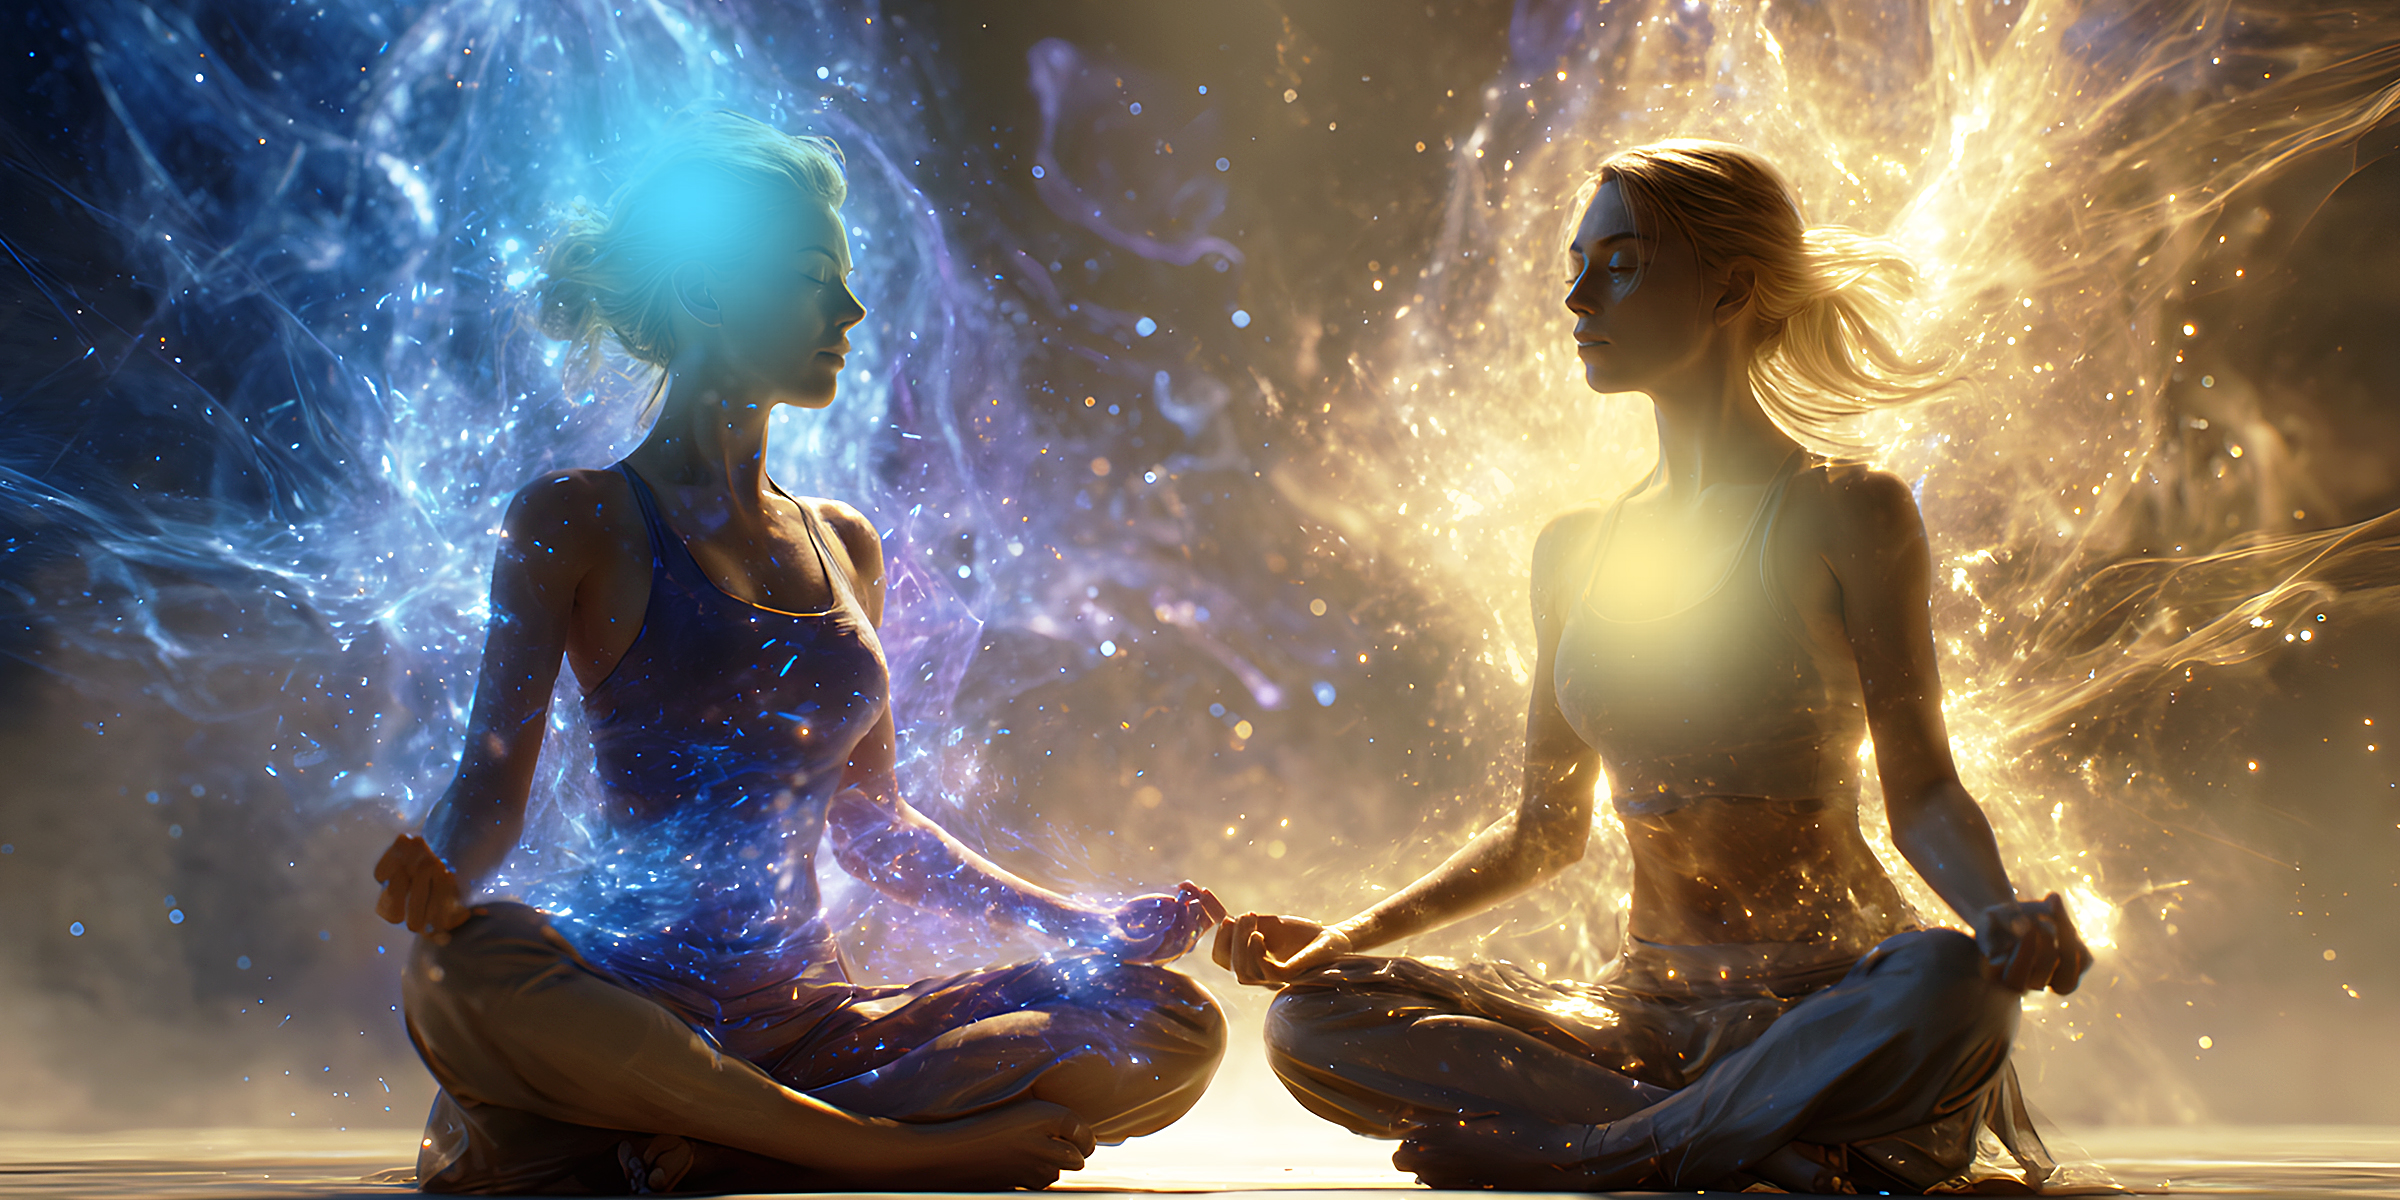
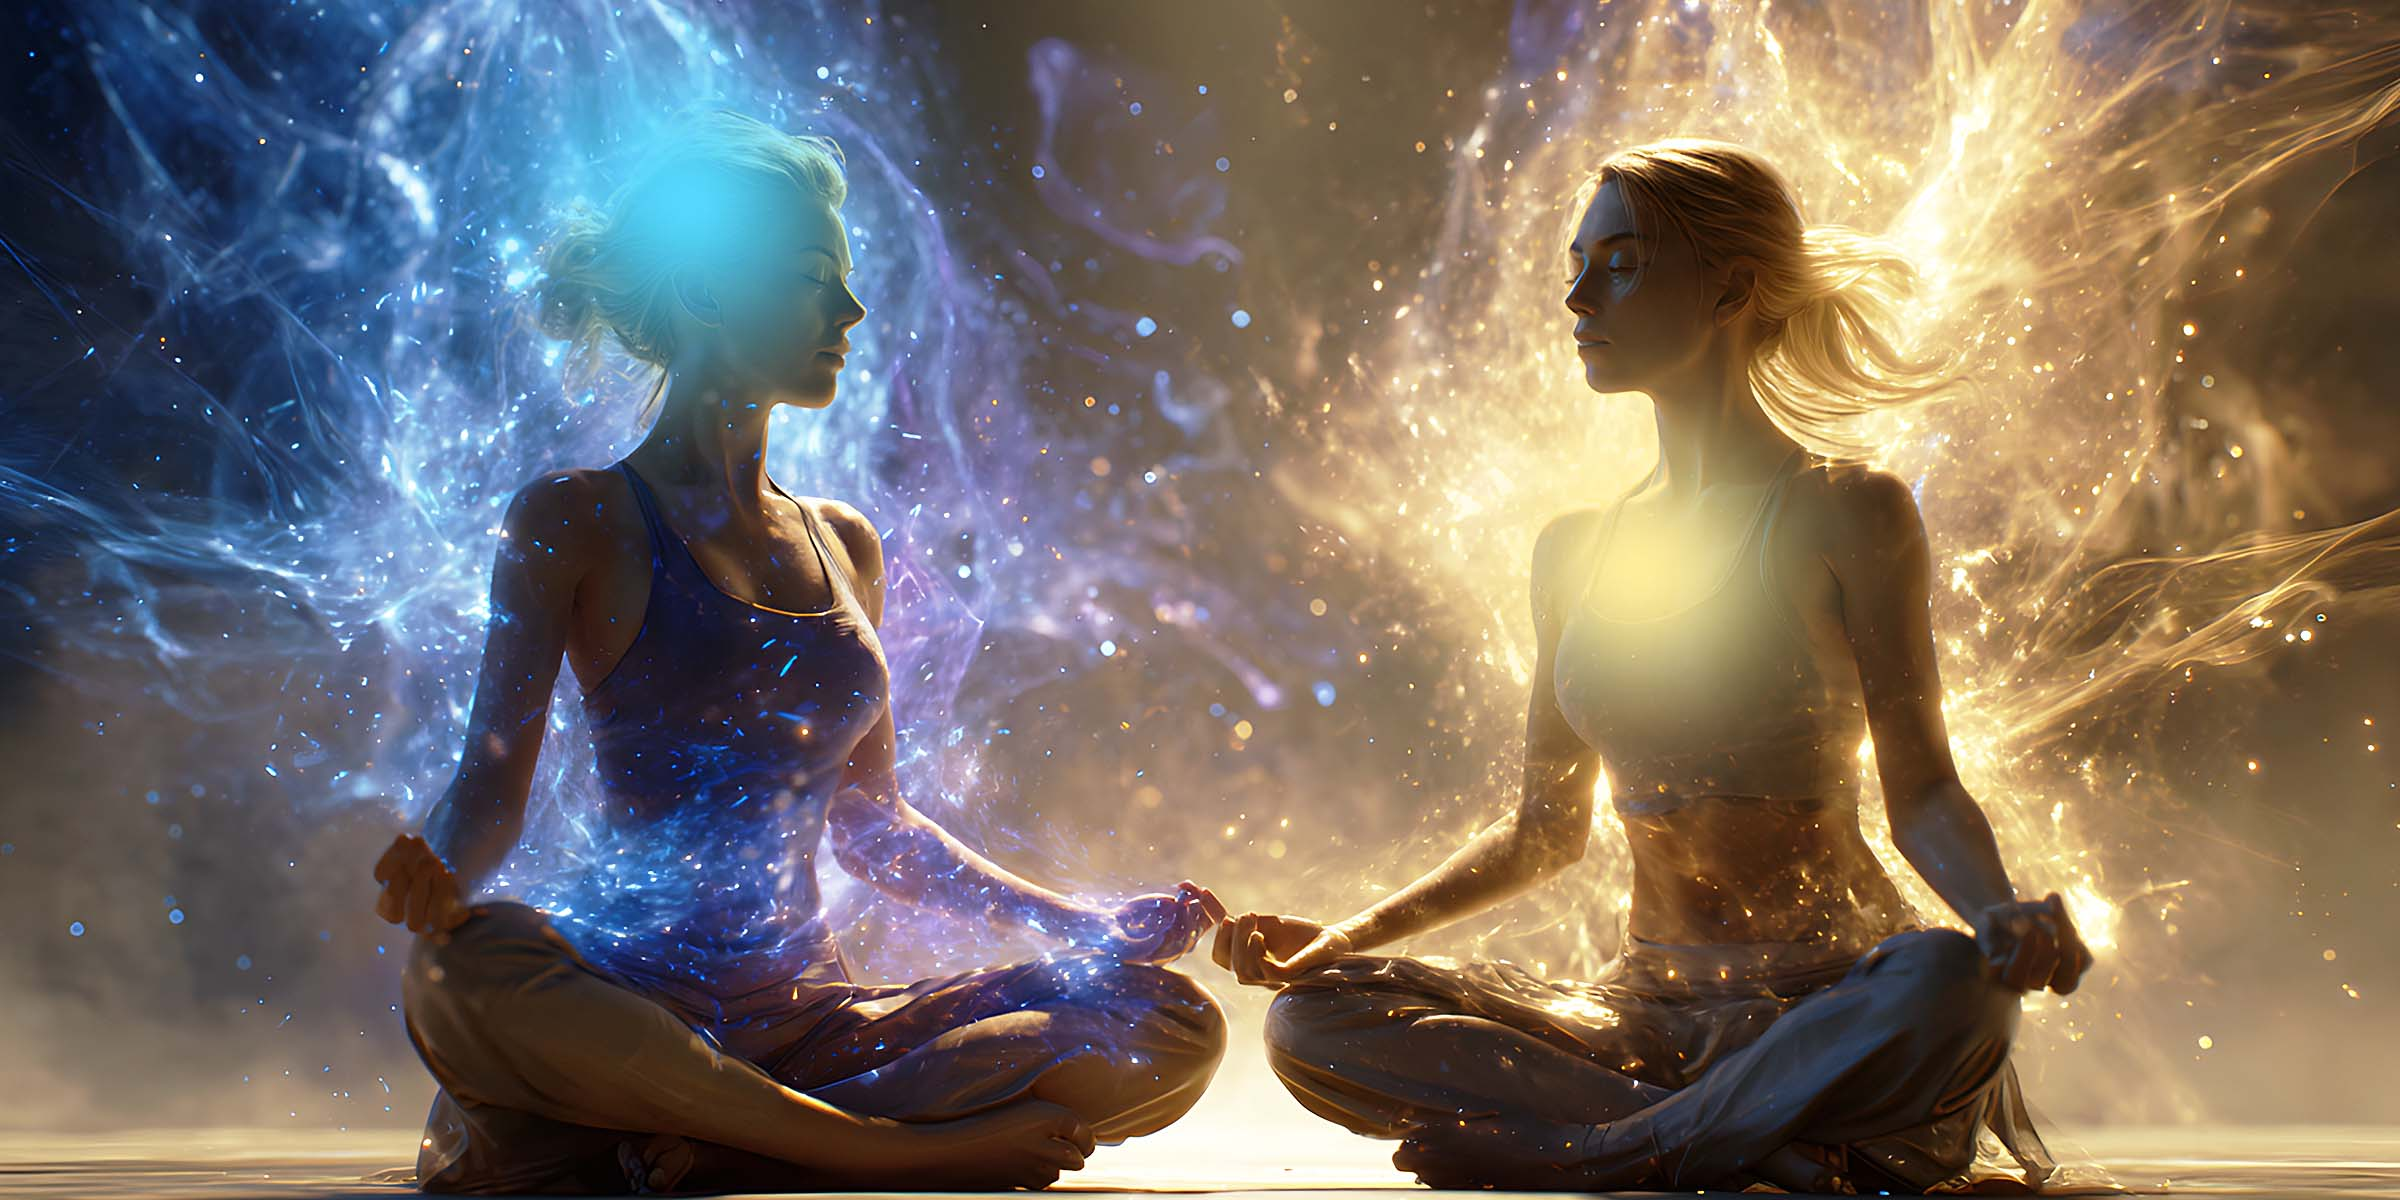
Refresh article imagery and update key wellness pages

diff --git a/ki_body_mastery.html b/ki_body_mastery.html
@@ -232,13 +232,14 @@
           <div class="quote-bar"><strong>Intelligence always forwards life!</strong> Intelligence always says YES to more aliveness. We need something more intelligent as a way of defining intelligence, so we can train and develop our future generations toward that.</div>
           <div style="clear: right;"></div>
         </div>
+		
         <!-- ARTICLE 1 -->
         <section id="whats-really-eating-you" class="ki2-section move_down_15">
           <article class="info-card no-lift">
             <div class="ki-copy">
               <h2 class="center"><strong><span class="fc-dkgold">What's Really Eating You?</span></strong></h2>
               <figure class="ki-article-hero ki-hero-800x200">
-                <img src="images/articles/ah/02_whats_eating_you.jpg" alt="What's Really Eating You?" title="What's Really Eating You?" loading="lazy" decoding="async">
+                <img src="images/articles/ah/02_whats_eating_you_en4.jpg" alt="What's Really Eating You?" title="What's Really Eating You?" loading="lazy" decoding="async">
               </figure>
               <p>One of the most mind-blowing things I learned early on in my recovery from my mentor, Dr. Theresa Dale, PhD, was about how parasitic infections are rampant in this country. Not only that, but our medical model completely ignores this fact. Let's take a look at the wide range of symptoms parasites cause in their human hosts. See if you can identify with any of these:</p>
               <hr class="sep">
@@ -277,14 +278,16 @@
             </div>
           </article>
         </section>
+		
         <hr class="sep">
+		
         <!-- ARTICLE 2 -->
         <section id="the-pandemic-in-our-guts" class="ki2-section move_down_15">
           <article class="info-card no-lift">
             <div class="ki-copy">
               <h2 class="center"><strong><span class="fc-dkgold">The Pandemic in Our Guts!</span></strong></h2>
               <figure class="ki-article-hero ki-hero-800x200">
-                <img src="images/articles/ah/02_whats_eating_you.jpg" alt="The Pandemic in Our Guts!" title="The Pandemic in Our Guts!" loading="lazy" decoding="async">
+                <img src="images/articles/ah/pandemic_our_guts_en4.jpg" alt="The Pandemic in Our Guts!" title="The Pandemic in Our Guts!" loading="lazy" decoding="async">
               </figure>
               <p>Over the past 40 years of practicing natural medicine, I have seen some epidemics come and go. When I first started out, as the patient, I was diagnosed with something called "Colon Dysbiosis," or "Intestinal Permeability," by my mentor Theresa Dale, Ph.D. This phraseology has morphed into what today we call "Leaky Gut Syndrome." At that time, Theresa assured me that this was a silent epidemic, and that the medical model didn't believe it was a real condition!</p>
               <p>Fast forward to now, where it is the most dangerous and most silent PANDEMIC of them all! Yet it has been written about in medical text books for a hundred years. Hippocrates said, "All disease begins in the gut." More than two thousand years later, scientific research has now proven he was on to something.</p>
@@ -325,13 +328,15 @@
           </article>
         </section>
         <hr class="sep">
+		
         <!-- ARTICLE 3 -->
+		
         <section id="dr-jessie-my-skin-story" class="ki2-section move_down_15">
           <article class="info-card no-lift">
             <div class="ki-copy">
               <h2 class="center"><strong><span class="fc-dkgold">Dr. Jessie, My Skin Story</span></strong></h2>
               <figure class="ki-article-hero ki-hero-800x200">
-                <img src="images/articles/ah/01_ah_my_skin_story.jpg" alt="Dr. Jessie's Skin Story" title="Dr. Jessie's Skin Story" loading="lazy" decoding="async">
+                <img src="images/articles/ah/01_ah_my_skin_story_en4.jpg" alt="Dr. Jessie's Skin Story" title="Dr. Jessie's Skin Story" loading="lazy" decoding="async">
               </figure>
               <p>My first chronic ailment was eczema, which would flare up on my face, above my eyes, corners of my mouth and at my ear lobes, itching like crazy. It started when I was around 12, and I was prescribed Cortisone creams on and off until I met my mentor, Dr. Theresa Dale, when I was 26. The situation could be quite painful at times, not to mention embarrassing as it was right there, on my face.</p>
               <p>Dr. Dale immediately set me straight about skin care. She explained that there were basically no healthy regulations in the personal care industry in the U.S. and unless an ingredient was banned, it could be used! She went on about the dyes, made with heavy metals and fragrances containing formaldehyde and explained how these would create excitotoxicity to the body, and could even help cause cancer. Theresa even coached us on sunscreens (this was way back in the Eighties) and explained that zinc oxide was the safest, that the chemical ones likely would cause cancer later, over time.</p>
@@ -345,14 +350,16 @@
             </div>
           </article>
         </section>
+		
         <hr class="sep">
+		
         <!-- ARTICLE 4 -->
         <section id="collagen-and-connective-tissue" class="ki2-section move_down_15">
           <article class="info-card no-lift">
             <div class="ki-copy">
               <h2 class="center"><strong><span class="fc-dkgold">Collagen and Connective Tissue</span></strong></h2>
               <figure class="ki-article-hero ki-hero-800x200">
-                <img src="images/articles/ah/00_ah_brain_energy.jpg" alt="Collagen and Connective Tissue — Coming Soon" title="Collagen and Connective Tissue — Coming Soon" loading="lazy" decoding="async">
+                <img src="images/articles/ah/collagen_connective_tissue_en4.jpg" alt="Collagen and Connective Tissue — Coming Soon" title="Collagen and Connective Tissue — Coming Soon" loading="lazy" decoding="async">
               </figure>
               <p>This article slot is reserved for the upcoming collagen and connective tissue deep dive. Check back soon for protocol guidance and supporting recommendations.</p>
               <hr class="sep">
@@ -360,14 +367,16 @@
             </div>
           </article>
         </section>
+		
         <hr class="sep">
+		
         <!-- ARTICLE 5 -->
         <section id="in-the-kitchen" class="ki2-section move_down_15">
           <article class="info-card no-lift">
             <div class="ki-copy">
               <h2 class="center"><strong><span class="fc-dkgold">Keener Intelligence — In The Kitchen</span></strong></h2>
               <figure class="ki-article-hero ki-hero-800x200">
-                <img src="images/articles/ah/02_whats_eating_you.jpg" alt="Keener Intelligence — In The Kitchen" title="Keener Intelligence — In The Kitchen" loading="lazy" decoding="async">
+                <img src="images/articles/ah/in_the_kitchen_en4.jpg" alt="Keener Intelligence — In The Kitchen" title="Keener Intelligence — In The Kitchen" loading="lazy" decoding="async">
               </figure>
               <p>Ever since I met my mentor Theresa Dale in 1984, I have been hugely into food, the preparation of it, how to cook, season, combine and even how to grow it.</p>
               <p>Dr. Dale was a great mentor in this area, turning me onto organics long before they were popular. But she went farther, showing me how to substitute more inflaming foods for better ingredients and choices. Already back then, I was instructed by her to avoid wheat, dairy (cow), soy, peanuts, yeast and mushrooms.</p>
@@ -379,14 +388,16 @@
             </div>
           </article>
         </section>
+		
         <hr class="sep">
+		
         <!-- ARTICLE 6 -->
         <section id="simple-food-combining" class="ki2-section move_down_15">
           <article class="info-card no-lift">
             <div class="ki-copy">
               <h2 class="center"><strong><span class="fc-dkgold">Simple Food Combining for Optimal Digestion</span></strong></h2>
               <figure class="ki-article-hero ki-hero-800x200">
-                <img src="images/articles/ah/02_whats_eating_you.jpg" alt="Simple Food Combining for Optimal Digestion" title="Simple Food Combining for Optimal Digestion" loading="lazy" decoding="async">
+                <img src="images/articles/ah/simple_food_combining_en4.jpg" alt="Simple Food Combining for Optimal Digestion" title="Simple Food Combining for Optimal Digestion" loading="lazy" decoding="async">
               </figure>
               <p>One of the first things that my mentor, Dr. Theresa Dale taught me was the principles of proper food combining. As she walked me through the basic rules, my mind was truly blown. Here was a way to make sure the proteins digested well, and didn't putrefy the liver.</p>
               <p>I had learned in Naturopathic school that fermented animal protein created 10 different toxic gases, one of which I still recall: Cadaverine! So I knew it was important to digest cleanly. However, they did not teach food combining at that institution, so thank goodness I ended up working with Theresa on my health.</p>
@@ -410,14 +421,16 @@
             </div>
           </article>
         </section>
+		
         <hr class="sep">
+		
         <!-- ARTICLE 7 -->
         <section id="lets-talk-about-eating" class="ki2-section move_down_15">
           <article class="info-card no-lift">
             <div class="ki-copy">
               <h2 class="center"><strong><span class="fc-dkgold">Let's Talk About Eating…</span></strong></h2>
               <figure class="ki-article-hero ki-hero-800x200">
-                <img src="images/articles/ah/02_whats_eating_you.jpg" alt="Let's Talk About Eating…" title="Let's Talk About Eating…" loading="lazy" decoding="async">
+                <img src="images/articles/ah/lets_talk_about_eating_en4.jpg" alt="Let's Talk About Eating…" title="Let's Talk About Eating…" loading="lazy" decoding="async">
               </figure>
               <p>One of the more important things to consider when wanting to upgrade our energy and wellbeing is HOW we eat. Not just what we eat, but the actual act of eating itself.</p>
               <p>Growing up, in our family we raised multiple animals — from goats, pigs, dogs, cats, and horses. They all ate exactly the same way: deliberately, intentionally and undistracted from the act. They chewed, lots, and seemed serene while doing it.</p>
@@ -431,14 +444,16 @@
             </div>
           </article>
         </section>
+		
         <hr class="sep">
+		
         <!-- ARTICLE 8 -->
         <section id="nutritional-supplements" class="ki2-section move_down_15">
           <article class="info-card no-lift">
             <div class="ki-copy">
               <h2 class="center"><strong><span class="fc-dkgold">Nutritional Supplements / Vibrational Remedies</span></strong></h2>
               <figure class="ki-article-hero ki-hero-800x200">
-                <img src="images/articles/ah/02_whats_eating_you.jpg" alt="Nutritional Supplements and Vibrational Remedies" title="Nutritional Supplements and Vibrational Remedies" loading="lazy" decoding="async">
+                <img src="images/articles/ah/nutritional_supplements_en4.jpg" alt="Nutritional Supplements and Vibrational Remedies" title="Nutritional Supplements and Vibrational Remedies" loading="lazy" decoding="async">
               </figure>
               <p>Over the decades I have seen many very good supplement companies come and go. There have been only a few that have withstood the test of both time and tribulations.</p>
               <p>Because natural substances cannot be patented, the pharmaceutical companies do not want us to have access to effective remedies from Mother Nature. They actively push to outlaw them! As long as we can have access to these items, here are my links; I have had relationships with these companies for decades. Beyond Intelligent remedies for you and your loved ones!</p>
@@ -457,14 +472,16 @@
             </div>
           </article>
         </section>
+		
         <hr class="sep">
+		
         <!-- ARTICLE 9 -->
         <section id="neora-beyond-skincare" class="ki2-section move_down_15">
           <article class="info-card no-lift">
             <div class="ki-copy">
               <h2 class="center"><strong><span class="fc-dkgold">NEORA Beyond Skincare</span></strong></h2>
               <figure class="ki-article-hero ki-hero-800x200">
-                <img src="images/articles/ah/02_whats_eating_you.jpg" alt="NEORA Beyond Skincare" title="NEORA Beyond Skincare" loading="lazy" decoding="async">
+                <img src="images/articles/ah/neora_beyond_skincare_en4.jpg" alt="NEORA Beyond Skincare" title="NEORA Beyond Skincare" loading="lazy" decoding="async">
               </figure>
               <p>I am someone who feels pretty darn good about my healthy skin, my lasting youthful appearance — yet up close, it was clear I was aging. Not rapidly, yet, and I wondered if there was a good company out there in the US making high performance, non-toxic youthing topical products (I am not a fan of invasive techniques like Botox). It turns out there is, named NEORA, and they have some WOW products that are safe and effective.</p>
               <p>The first product I was curious about was their new FIRM topical body cream. After 3 days of using the FIRM, I actually could see a difference in the mirror! For me that is a home run. Turkey necks, jowls, and all sorts of body parts were firming up, and results were visible.</p>
@@ -483,14 +500,16 @@
             </div>
           </article>
         </section>
+		
         <hr class="sep">
+		
         <!-- ARTICLE 10 -->
         <section id="dimensions-of-wellness" class="ki2-section move_down_15">
           <article class="info-card no-lift">
             <div class="ki-copy">
               <h2 class="center"><strong><span class="fc-dkgold">Dimensions of Wellness</span></strong></h2>
               <figure class="ki-article-hero ki-hero-800x200">
-                <img src="images/articles/ah/02_whats_eating_you.jpg" alt="Dimensions of Wellness" title="Dimensions of Wellness" loading="lazy" decoding="async">
+                <img src="images/articles/ah/dimensions_wellness_en4.jpg" alt="Dimensions of Wellness" title="Dimensions of Wellness" loading="lazy" decoding="async">
               </figure>
               <p>One thing that used to stand out for me when I initially met with a new client was how they really didn't have a relationship with well-being. <strong>Their relationship with sickness, being overweight, feeling constantly drained was very well developed,</strong> but when I asked them about the flip side, they usually only got as far as "relief," or "freedom from __________."</p>
               <p>Of course, I was the same way, long ago at the age of around 25, when I learned that health was not "the absence of disease," rather it was "a state of complete physical, mental and spiritual freedom," or years later, as the WHO stated, "Health is a state of complete physical, mental and social well-being."</p>

diff --git a/ki_mind_spirit.html b/ki_mind_spirit.html
@@ -234,7 +234,7 @@
             <div class="ki-copy">
               <h2 class="center"><strong><span class="fc-dkgold">A Brief History of Human Intelligence</span></strong></h2>
               <figure class="ki-article-hero ki-hero-800x200">
-                <img src="images/articles/ah/02_whats_eating_you.jpg" alt="A Brief History of Human Intelligence" title="A Brief History of Human Intelligence" loading="lazy" decoding="async">
+                <img src="images/articles/ah/history_human_iIntelligence_en4.jpg" alt="A Brief History of Human Intelligence" title="A Brief History of Human Intelligence" loading="lazy" decoding="async">
               </figure>
               <p>In modern history, human Intelligence started to get ranked through the I.Q., or Intelligence Quotient, around the early 1900s. At that time, science was interested in how to measure/test for I.Q.s, what caused higher I.Q.s and could higher I.Q.s be stimulated in children and other test subjects.</p>
               <p>Here is the early Merriam-Webster Dictionary definition of <a href="https://www.merriam-webster.com/dictionary/IQ" target="_blank" rel="noopener noreferrer"><strong>I.Q.</strong></a></p>
@@ -286,7 +286,7 @@
             <div class="ki-copy">
               <h2 class="center"><strong><span class="fc-dkgold">Keener Intelligence — Knowing the A.Q. Initiative &amp; Understanding the Actualization Quotient</span></strong></h2>
               <figure class="ki-article-hero ki-hero-800x200">
-                <img src="images/articles/ah/02_whats_eating_you.jpg" alt="Knowing the A.Q. Initiative and Understanding the Actualization Quotient" title="Knowing the A.Q. Initiative and Understanding the Actualization Quotient" loading="lazy" decoding="async">
+                <img src="images/articles/ah/aq_initiative_en4.jpg" alt="Knowing the A.Q. Initiative and Understanding the Actualization Quotient" title="Knowing the A.Q. Initiative and Understanding the Actualization Quotient" loading="lazy" decoding="async">
               </figure>
               <p>Keener Intelligence is based on a theory I developed that I call the <strong><span class="fc-dkgold">Actualization Quotient</span></strong> of human intelligence.</p>
               <p>From over decades of applied character development, I have determined that our standards of human intelligence are failing us in fundamental ways. In fact, our current measurements of intelligence, the I.Q. and even the E.Q., are flawed and cannot carry the day.</p>
@@ -317,7 +317,7 @@
             <div class="ki-copy">
               <h2 class="center"><strong><span class="fc-dkgold">How To Stay In Character Development</span></strong></h2>
               <figure class="ki-article-hero ki-hero-800x200">
-                <img src="images/articles/ah/02_whats_eating_you.jpg" alt="How To Stay In Character Development" title="How To Stay In Character Development" loading="lazy" decoding="async">
+                <img src="images/articles/ah/character_dev_en4.jpg" alt="How To Stay In Character Development" title="How To Stay In Character Development" loading="lazy" decoding="async">
               </figure>
               <p>The only way to continue to increase your brain power and consciousness is through a steady approach to life as ALWAYS IN DEVELOPMENT. In other words, when life presents a challenge or a so-called obstacle, <strong>we have to train ourselves to see it as an opportunity for growth and increased adaptability.</strong></p>
               <p>Then we can have a different perspective with the so-called problem, and use brain training to come up with our perfect, custom solution.</p>
@@ -346,7 +346,7 @@
             <div class="ki-copy">
               <h2 class="center"><strong><span class="fc-dkgold">How To Evaluate Your Personal A.Q.</span></strong></h2>
               <figure class="ki-article-hero ki-hero-800x200">
-                <img src="images/articles/ah/02_whats_eating_you.jpg" alt="How To Evaluate Your Personal A.Q." title="How To Evaluate Your Personal A.Q." loading="lazy" decoding="async">
+                <img src="images/articles/ah/your_personal_aq_en4.jpg" alt="How To Evaluate Your Personal A.Q." title="How To Evaluate Your Personal A.Q." loading="lazy" decoding="async">
               </figure>
               <p>Keener Intelligence is based on a theory I developed that I call the <strong>Actualization Quotient</strong> of human intelligence.</p>
               <p>From over decades of applied character development, I have determined that our standards of human intelligence are failing us in fundamental ways. In fact, our current measurements of intelligence, the I.Q. and even the E.Q., are flawed and cannot carry the day.</p>
@@ -381,7 +381,7 @@
             <div class="ki-copy">
               <h2 class="center"><strong><span class="fc-dkgold">The Nature of Applied Character Development</span></strong></h2>
               <figure class="ki-article-hero ki-hero-800x200">
-                <img src="images/articles/ah/02_whats_eating_you.jpg" alt="The Nature of Applied Character Development" title="The Nature of Applied Character Development" loading="lazy" decoding="async">
+                <img src="images/articles/ah/applied_character_dev_en4.jpg" alt="The Nature of Applied Character Development" title="The Nature of Applied Character Development" loading="lazy" decoding="async">
               </figure>
               <p>One of the things that has helped me tremendously along the way over the past 25 years is a particular way of addressing character development.</p>
               <div class="quote-bar"><strong>Applied character development:</strong> Know the traits required to accomplish the goal, not just the action steps.</div>

diff --git a/brain_energy.html b/brain_energy.html
@@ -172,7 +172,7 @@
     <section class="hero" aria-label="Dr. Jessie Keener naturopathic and ascension banner">
       <div class="hero-inner">
         <div class="hero-banner-frame">
-          <img src="images/headers/07_img_header_1200x600.jpg" alt="Peaceful magenta and teal wellness scene" class="hero-banner-image">
+          <img src="images/headers/01_brain_energy_header_2400x1200.jpg" alt="Brain Energy" class="hero-banner-image">
         </div>
       </div>
     </section>
@@ -198,7 +198,7 @@
             <div class="ki-copy">
               <h2 class="center"><strong><span class="fc-dkgold">Cortisol and Brain Health</span></strong></h2>
               <figure class="ki-article-hero ki-hero-800x200">
-                <img src="images/articles/ah/02_whats_eating_you.jpg" alt="Brain Energy article hero image" title="Brain Energy article hero image" loading="lazy" decoding="async">
+                <img src="images/articles/ah/cortisol_brain_health_en4.jpg" alt="Brain Energy article hero image" title="Brain Energy article hero image" loading="lazy" decoding="async">
               </figure>
               <p>There are many ways to accelerate brain health, and one of them is essential for everyone: managing the hormone Cortisol, aka "The stress hormone."</p>
               <p>Produced by the adrenal glands, Cortisol is essential for the "flight or fight" response and is critical to our survival. The physical effects of Cortisol are designed to give us that adrenaline rush, push the energy into our extremities, and prepare us literally for the fight of our life or the sprint away from the enemy as fast as we can.</p>
@@ -232,7 +232,7 @@
             <div class="ki-copy">
               <h2 class="center"><strong><span class="fc-dkgold">The Art of Breathing and Why It Matters</span></strong></h2>
               <figure class="ki-article-hero ki-hero-800x200">
-                <img src="images/articles/ah/02_whats_eating_you.jpg" alt="Brain Energy article hero image" title="Brain Energy article hero image" loading="lazy" decoding="async">
+                <img src="images/articles/ah/art_of_breathing_en4.jpg" alt="Brain Energy article hero image" title="Brain Energy article hero image" loading="lazy" decoding="async">
               </figure>
               <p>Believe it or not, one of the most fundamental requirements for increasing our intelligence is restoring our natural breathing ability. Between modern birth practices and current high chronic stressors, most of us barely breathe enough to foster more aliveness, a marker of intelligence.</p>
               <p>Let's start with our modern birth practice: Once the baby is out of the mother, they are held upside down and whacked on the butt to elicit that first breath. Given the harshness of this physical experience, the infant's first breath is one of terror and intense pain. This immediately registers in the brain as a terrible idea, and a visceral decision gets made: "I will NEVER breathe that fully again!" This begins a tragic series of belief systems about how life works. We call this birthing trauma in the field of conscious breath work.</p>